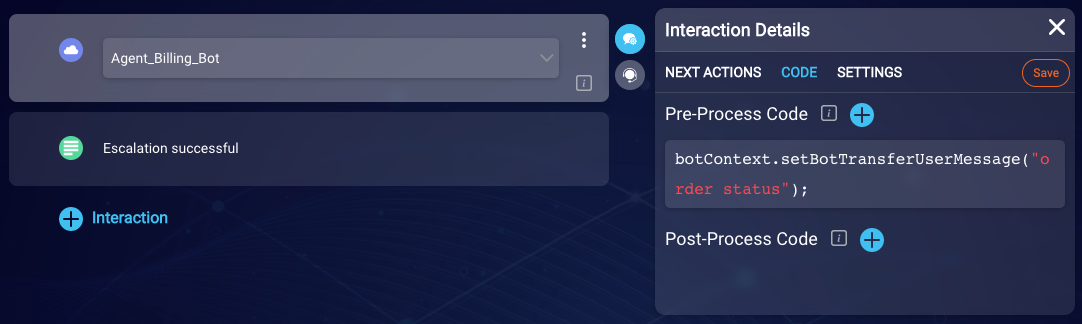
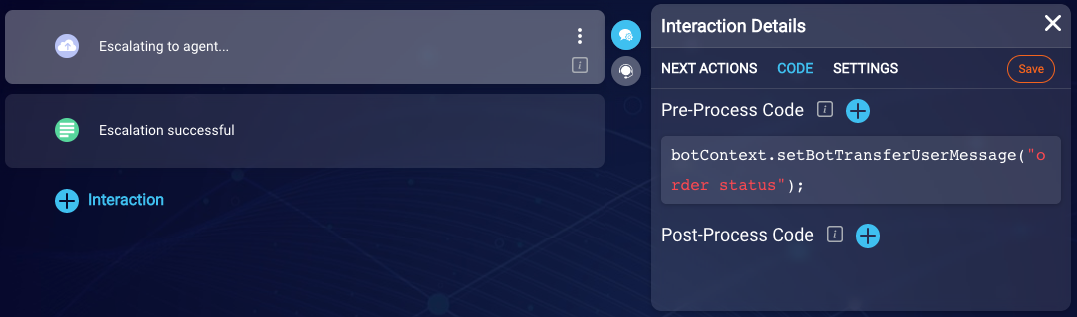
BA-4027 Auto Escalation updates

diff --git a/pages/documents/ConversationalAI/ConversationBuilder/Bots/CustomBots.md b/pages/documents/ConversationalAI/ConversationBuilder/Bots/CustomBots.md
@@ -24,13 +24,23 @@ LivePerson recommends that —before you create a bot— you set up the [domains
 2. In the Dashboard, click **New Bot** in the upper-right corner.
 3. In the dialog box that appears, select the [template](conversation-builder-templates-overview.html) on which to base the bot.
     
-    The Custom Bot template uses English and includes just a Welcome dialog and a Fallback dialog (see [Dialog Types](conversation-builder-dialogs-dialog-basics.html#dialog-types)), so it’s ideal if you want to start from scratch. In this case, you’ll be prompted to enter a name and configure a few other settings before the bot is created. For help, see [Configure bot settings](conversation-builder-bots-bot-basics.html#configure-bot-settings). 
+    The Custom Bot template uses English and includes just a Welcome dialog and a Fallback dialog (see [Dialog Types](conversation-builder-dialogs-dialog-basics.html#dialog-types)), so it’s ideal if you want to start from scratch. In this case, you’ll be prompted to enter a name and configure a few other settings before the bot is created. 
 
     There are also many, industry-specific, English-language templates available. If you select one of these, all settings are configured for you. We recommend that you change the bot’s name (removing the date and time stamp at a minimum) and review the other settings. For help, see [Configure bot settings](conversation-builder-bots-bot-basics.html#configure-bot-settings).
 
-4. Build out the bot, completing and adding the necessary [dialogs](conversation-builder-dialogs-dialog-basics.html) and [interactions](conversation-builder-interactions-interaction-basics.html). As you work, test the bot using the Preview tool.
-5. [Save versions](conversation-builder-versions-releases.html#save-a-version) of the bot at important points in its development. This allows you to restore a version if you need.
-6. [Train and tune](conversation-builder-best-practices-train-tune-nlu.html) things as you do more testing.
-7. [Save a version](conversation-builder-versions-releases.html#save-a-version) of the final “Development” bot.
+4. If you selected the Custom Bot template, in the next dialog, specify the following:
+
+    * **Name**: Enter a name that’s concise and clear. Make sure abbreviations can be understood, and consider adding a prefix or suffix to indicate the environment (Dev, Prod, etc.) or language (En, Sp, Fr, etc.) if applicable.
+    * **Description**: Enter a description that’s meaningful to you and others. Consider including language that identifies the bot's goal and key behaviors
+    * **Bot Language**: This setting determines the language-specific model for LivePerson NLU; it also supports the proper rendering of left-to-right and right-to-left languages. You specify the bot language when you create the bot, and it can’t be changed afterward.
+    * **Bot Group**: Optionally select the bot group for the bot. A bot can be a member of exactly one group. As a member, if it can't handle a received request, it automatically determines if another bot within its group can do so, and, if so, transfers the conversation. For more information on how bot groups work, see [here](conversation-builder-bots-bot-to-bot-transfers.html).
+    * **Create Auto Escalation Dialog**: An Auto Escalation dialog is designed to free the consumer from being stuck within a question, which happens when the bot repeatedly doesn’t recognize the consumer’s input. The dialog is triggered automatically after a configurable threshold is reached; it gives the consumer the option to be transferred. For more on this, see [here](conversation-builder-dialogs-auto-escalation-dialogs.html).
+
+        If you opt to create an Auto Escalation dialog, there are two more settings to specify: In **Auto Escalation Skill**, specify the ID of the skill to which to transfer the conversation. The skill is defined in LiveEngage. Here you can specify the ID using a bot context variable like {$botContext.skillId}, or you can enter a direct, numeric value. Additionally, in **Auto Escalation Threshold**, select the maximum number of times the fallback message should be sent within a question before triggering the Auto Escalation dialog.
+
+5. Build out the bot, completing and adding the necessary [dialogs](conversation-builder-dialogs-dialog-basics.html) and [interactions](conversation-builder-interactions-interaction-basics.html). As you work, test the bot using the Preview tool.
+6. [Save versions](conversation-builder-versions-releases.html#save-a-version) of the bot at important points in its development. This allows you to restore a version if you need.
+7. [Train and tune](conversation-builder-best-practices-train-tune-nlu.html) things as you do more testing.
+8. [Save a version](conversation-builder-versions-releases.html#save-a-version) of the final “Development” bot.
 
     At this point, you could deploy the Development bot, but LivePerson recommends that you [create a release](conversation-builder-versions-releases.html#create-a-release) copy of the bot that you deploy instead. This allows you to take live the release copy (the Production copy). Later, you can make fine-tuning changes to the Development copy as needed, without affecting the Production copy. You can then “upgrade” the Production copy accordingly.

diff --git a/pages/documents/ConversationalAI/ConversationBuilder/Dialogs/dialogs_autoEscalation.md b/pages/documents/ConversationalAI/ConversationBuilder/Dialogs/dialogs_autoEscalation.md
@@ -11,13 +11,13 @@ indicator: both
 
 ### Why use an Auto Escalation dialog?
 
-The purpose of the Auto Escalation dialog is to free the consumer from being stuck within a question. This can happen when the bot doesn't recognize the consumer's input. Because the bot can't determine the next step that should happen, the [fallback response]((conversation-builder-dialogs-fallback-dialogs.html)) is sent, and the consumer is returned to the place where the failure occurred. The fallback response is then repeated after each unrecognizable input, resulting in a stuck conversation. The consumer's predicament is illustrated in the example below.
+The purpose of the Auto Escalation dialog is to free the consumer from being stuck within a question. This can happen when the bot doesn't recognize the consumer's input. Because the bot can't determine the next step that should happen, the [fallback response]((conversation-builder-dialogs-fallback-dialogs.html)) is sent, and the consumer is returned to the place where the failure occurred. The fallback response is repeated after each unrecognizable input, resulting in a stuck conversation. The consumer's predicament is illustrated in the example below.
 
-<img class="fancyimage" style="width:350px" src="img/ConvoBuilder/dialogs_autoEscalate1.png">
+<img style="width:350px" src="img/ConvoBuilder/dialogs_autoEscalate1.png">
 
 The Auto Escalation dialog solves this problem by offering the consumer the option of being transferred to a live agent (or another bot). You configure the number of times that the fallback response should be sent within a question. Once that threshold is reached, the Auto Escalation dialog is triggered automatically.
 
-ADD SCREEN SHOWING THIS
+<img style="width:450px" src="img/ConvoBuilder/dialogs_autoEscalate2.png">
 
 ### Implement an Auto Escalation dialog
 
@@ -34,7 +34,7 @@ When you [create a custom bot](conversation-builder-bots-custom-bots.html), you 
 2. In the dialog that appears, specify the following:
     * **Dialog Name**: Enter a descriptive name.
     * **Dialog Type**: Select "Auto Escalation Dialog."
-    * **Auto Escalation Skill**: Specify the ID of the skill to which to escalate (transfer) the conversation. You can select from the IDs of the skills configured for your account; alternatively, enter a [botContext variable](conversation-builder-variables-slots.html#variables) like `{$botContext.skillId}` or an [environment variable](conversation-builder-environment-variables.html). You can edit this information later in the Escalation interaction's settings.
+    * **Auto Escalation Skill**: Specify the ID of the skill to which to escalate (transfer) the conversation. You can select from the IDs of the skills configured for your account; alternatively, enter a [botContext variable](conversation-builder-variables-slots.html#variables) like `{$botContext.skillId}` or an [environment variable](conversation-builder-environment-variables.html). You can edit this information later in the Escalation Integration interaction's settings.
     * **Auto Escalation Threshold**: Select the maximum number of times the fallback message should be sent within a question before triggering the Auto Escalation dialog. You can edit this information later in the dialog's settings.
 3. Click **Save**.
 
@@ -42,9 +42,12 @@ When you [create a custom bot](conversation-builder-bots-custom-bots.html), you 
 
 By default, an Auto Escalation dialog includes a Yes/No multiple choice question that asks the consumer if they want to speak to a live agent. If the consumer says Yes, the escalation (transfer) occurs. If the consumer says No, the interaction ends.
 
-ADD SCREEN CAP
+<img style="width:800px" src="img/ConvoBuilder/dialogs_autoEscalate3.png">
 
-If the default dialog implementation doesn't meet your requirements, build out and/or modify the dialog. For information on configuring Escalation interactions, see here.
+If the default dialog implementation doesn't meet your requirements, build out and/or modify the dialog. For information on configuring Escalation Integration interactions, see [here](conversation-builder-interactions-integrations.html#escalation-integration-interactions).
+
+{: .important}
+You can change the **Auto Escalation Threshold** in the dialog's settings.
 
 ### FAQs
 

diff --git a/pages/documents/ConversationalAI/ConversationBuilder/Interactions/interactions_integrations.md b/pages/documents/ConversationalAI/ConversationBuilder/Interactions/interactions_integrations.md
@@ -40,12 +40,12 @@ We've likewise added a second condition that checks for a "failure" result **(1)
 
  <img style="width:800px" src="img/ConvoBuilder/integrations_api_failure.png">
 
-### Escalation interactions
+### Escalation Integration interactions
 
-Use an Escalation interaction in a dialog when you want to escalate (transfer) a conversation from a bot to a live agent or from a bot in one bot transfer group to a bot in a *different* group.
+Use an Escalation Integration interaction in a dialog when you want to escalate (transfer) a conversation from a bot to a live agent or from a bot in one bot group to a bot in a *different* group.
 
 {: .important}
-An Escalation interaction *doesn't* require a supporting LivePerson Agent Escalation integration. You specify all necessary information in the interaction itself. The [LivePerson Agent Escalation integration](conversation-builder-integrations-liveperson-agent-escalation-integrations.html) is a deprecated but supported feature; we recommend you use an Escalation interaction instead.
+There are two ways to implement an escalation: You can add an Escalation Integration interaction, *as discussed here*. Or, you can add an Integration interaction that uses a supporting [LivePerson Agent Escalation integration](conversation-builder-integrations-liveperson-agent-escalation-integrations.html). There is no difference between the two approaches when it comes to performance. However, use of the Escalation Integration interaction is a simpler, more convenient approach because you specify all necessary information in the interaction itself. If you use an Escalation Integration interaction, you *don't* need to create a supporting integration.
 
 {: .important}
 Implementing a bot-to-bot transfer? See [here](conversation-builder-bots-bot-to-bot-transfers.html#manual-transfers) for more information.
@@ -54,12 +54,13 @@ Implementing a bot-to-bot transfer? See [here](conversation-builder-bots-bot-to-
 
 **To add an Escalation interaction**
 
-1. Select the interaction just above where you want to add the escalation, and click (Escalation) on the interactions toolbar.
-2. In the interaction, enter the message to send to the user prior to being transferred, something like, “Hold on while I connect you with an agent.” You can enter either static text, use a variable, or a combination of both. The system will send this message as a part of the transfer API post body. This field is required, so if you don't want to send a message, enter "BLANK_MESSAGE" here. That satisfies the underlying, system requirement for a message, but it doesn't actually send one.
+1. Select the interaction just above where you want to add the escalation, and click <img style="width:30px" src="img/ConvoBuilder/icon_escalation_integr.png"> (Escalation Integration) on the interactions toolbar.
+2. In the interaction, enter the message to send to the user prior to being transferred, something like, “Hold on while I connect you with an agent.” You can enter either static text, use a variable, or a combination of both. This field is required, so if you don't want to send a message, enter "BLANK_MESSAGE" here. That satisfies the underlying, system requirement for a message, but it doesn't actually send one. The default value is, "Escalating to agent..."
 
-    ADD SCREEN
+    <img style="width:600px" src="img/ConvoBuilder/interactions_esc1.png">
 
-3. DOC HOW TO ACCESS INTERACTION SETTINGS, specify the following:
+3. Click <img style="width:30px" src="img/ConvoBuilder/icon_interactionDetails.png"> to open the **Interaction Details**, and click the **Settings** tab.
+4. Specify the following:
 
     * **Agent Skill ID**: Specify the ID of the skill to which to transfer the conversation. The skill is defined in LiveEngage. Here you can specify the ID using a bot context variable like `{$botContext.skillId}`, or you can enter a direct, numeric value.
 

diff --git a/pages/documents/ConversationalAI/ConversationBuilder/Bots/MultiBotCollaboration.md b/pages/documents/ConversationalAI/ConversationBuilder/Bots/MultiBotCollaboration.md
@@ -129,11 +129,17 @@ You'll need to use a manual transfer in two situations:
 
 #### Making manual transfers seamless
 
-In a manual transfer, you can *automatically* pass the intent and/or user message from the sender bot to the receiver bot by selecting the **Bot Transfer Context** checkbox in the [LivePerson Agent Escalation](conversation-builder-integrations-liveperson-agent-escalation-integrations.html) integration. No coding is required.
+In a manual transfer, you can *automatically* pass the intent and/or user message from the sender bot to the receiver bot by selecting the **Bot Transfer Context** checkbox in the [LivePerson Agent Escalation](conversation-builder-integrations-liveperson-agent-escalation-integrations.html) integration:
    
 <img class="fancyimage" style="width:800px" src="img/ConvoBuilder/bots_collab1.png">
 
-Selecting the **Bot Transfer Context** checkbox enables the use of a Bot Transfer Context object behind the scenes. This object contains the conversational context information that is sent from the sender bot to the receiver bot.
+Or, if you've used an [Escalation Integration interaction](conversation-builder-interactions-integrations.html#escalation-integration-interactions) instead, you can do this in the interaction's settings:
+
+<img class="fancyimage" style="width:800px" src="img/ConvoBuilder/bots_collab9.png">
+
+No coding is required.
+
+Enabling the **Bot Transfer Context** setting enables the use of a Bot Transfer Context object behind the scenes. This object contains the conversational context information that is sent from the sender bot to the receiver bot.
 
    <img style="width:500px" src="img/ConvoBuilder/bots_collab4.png">
 
@@ -146,7 +152,7 @@ Occasionally, you might want to overwrite the intent or user message that is pas
 * To overwrite the user message, use [setBotTransferUserMessage](conversation-builder-scripting-functions-get-set-contextual-data.html#set-bot-transfer-user-message).
 * To overwrite the intent, you can use [setBotTransferIntentbyDomain](conversation-builder-scripting-functions-get-set-contextual-data.html#set-bot-transfer-intent-by-domain). The system will ascertain and pass the intent ID based on the provided domain name and intent name. Alternatively, you can use [setBotTransferIntentID](conversation-builder-scripting-functions-get-set-contextual-data.html#set-bot-transfer-intent-id).
 
-In our example below, we've overwritten the user message, and we've done this in the Pre-Process Code in the integration interaction.
+In our example below, we've overwritten the user message, and we've done this in the Pre-Process Code in the Escalation Integration interaction.
 
 <img class="fancyimage" style="width:800px" src="img/ConvoBuilder/bots_collab2.png">
 

diff --git a/pages/documents/ConversationalAI/ConversationBuilder/Integrations/integrations_LivePersonAgentEscalation.md b/pages/documents/ConversationalAI/ConversationBuilder/Integrations/integrations_LivePersonAgentEscalation.md
@@ -14,7 +14,10 @@ Use a LivePerson Agent Escalation integration when you want to transfer a conver
 For some practice with this integration type, complete the [Connect to LiveEngage](conversation-builder-tutorials-guides-getting-started.html) tutorial.
 
 {: .important}
-For information on performing bot-to-bot transfers in specific, see [here](conversation-builder-bots-bot-to-bot-transfers.html).
+There are two ways to implement an escalation: You can add an [Escalation Integration interaction](conversation-builder-interactions-integrations.html#escalation-integration-interactions). Or, you can add an Integration interaction that uses a supporting LivePerson Agent Escalation integration, *which is discussed here*. There is no difference between the two approaches when it comes to performance. However, use of the Escalation Integration interaction is a simpler, more convenient approach because you specify all necessary information in the interaction itself. If you use an Escalation Integration interaction, you *don't* need to create a supporting integration.
+
+{: .important}
+Implementing a bot-to-bot transfer? See [here](conversation-builder-bots-bot-to-bot-transfers.html#manual-transfers) for more information.
 
 ### Add a LivePerson Agent Escalation
 
